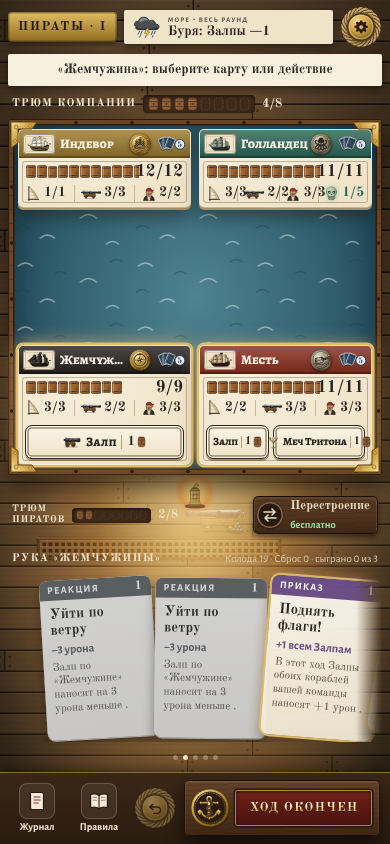
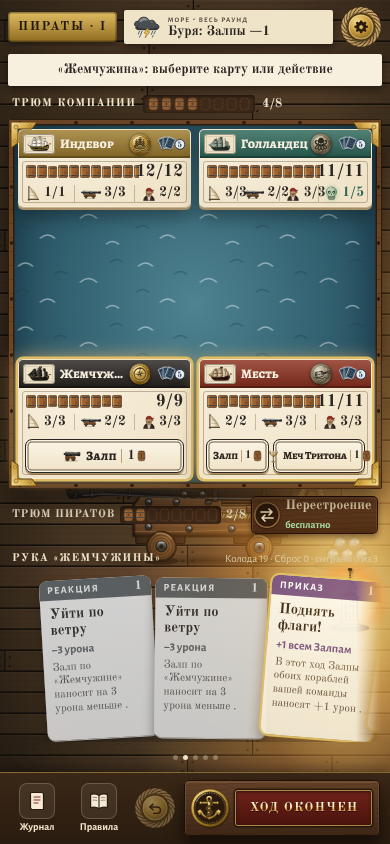
a5-phone: the deck gun behind the Hold row — on a phone the big gun of «Палуба» (70 % of the width) is the background behind the row of the Hold, the lantern hangs on a hook behind the fan; the row of the Hold is whole again; the fan overlaps as before
Claude-Session: https://claude.ai/code/session_017bwkospFGZYATbEyyNQNKf

Changed region(s): [[0.0, 0.2773, 1.0, 0.9242], [0.2154, 0.0924, 0.6154, 0.154]]

diff --git a/src/ui/game/TableThings.tsx b/src/ui/game/TableThings.tsx
@@ -44,9 +44,9 @@ interface Placed extends Box {
  * R — 16 px before «Ход окончен» + «Отменить», its balls at the wheel, the lantern (1.3) over the breech; the hand stands in the
  * middle of the strip from L (24 px right of the Hold, the hourglass and «Перестроение») to the gun − 16 (Hand.tsx useFanFit
  * reads the paddings of .hand-cards and closes the step of the fan when the cards do not fit), whole in the window; its tabs
- * begin over its first card, the grating lies over its middle. A phone (a5-phone): the gun (turned, its breech to the left) with its
- * balls whole in the row of the Hold, in the gap between «2/8» and «Перестроение», as tall as the row; the lantern (smaller) stands
- * on its breech, its light falls on the gun and the top of the hand — neither meets the tray, the button, the cards or the bar.
+ * begin over its first card, the grating lies over its middle. A phone (a5-phone): a big gun (70 % of the width, turned) behind the fan
+ * in the middle of the zone of the hand, its balls by the wheel; the lantern hangs on a hook in the top right corner of that zone;
+ * both are the background — the cards, the caption and the bottom bar lie over them.
  */
 const PIECES = {
   grate: { src: grate, vb: [-7, -7, 354, 38] },
@@ -56,6 +56,10 @@ const PIECES = {
   coil: { src: coilArt, vb: [-41, -18, 70, 46] },
 } as const;
 type PieceKey = keyof typeof PIECES;
+/** A phone: the iron hook in a beam the lantern hangs on, and its short chain (stretched to the height of its box). */
+const HOOK_SVG =
+  '<svg width="100%" height="100%" viewBox="0 0 12 30" preserveAspectRatio="none" aria-hidden="true"><circle cx="6" cy="2.4" r="2" fill="#2a2420" stroke="#0e0b09" stroke-width=".6"/><path d="M6 4 V24" stroke="#3a322c" stroke-width="1.6" stroke-dasharray="2.4 1.2"/><path d="M6 23 Q9.4 25 8.4 28 Q7 30.4 4.4 29" fill="none" stroke="#2a2420" stroke-width="1.6" stroke-linecap="round"/></svg>';
+
 /** The light of the lantern reaches R (the values of the user for the whole table). */
 const LIGHT_R = { laptop: 380, phone: 220 } as const;
 /** The scales of the gun and the lantern on a laptop (1366×660). */
@@ -77,6 +81,8 @@ interface DeckPlace {
   /** A laptop: the paddings that put the hand in the middle of its strip (in the px of the zoomed row), the room under the
    *  cards, the indent of the tabs (the left of the first card) and the larger hand of a tall window. */
   hand?: { pl: number; pr: number; lift: number; tabs: number };
+  /** A phone: the hook the lantern hangs on. */
+  hook?: Box;
 }
 
 const visible = (game: HTMLElement, q: string) => Array.from(game.querySelectorAll(q)).find((e) => e.getBoundingClientRect().width > 0) ?? null;
@@ -99,29 +105,26 @@ function deckPlace(game: HTMLElement): DeckPlace | null {
   const cards = Array.from(game.querySelectorAll('.hand-cards .hcard')).map((c) => rect(c, g)).filter((c): c is Box => !!c);
   if (!hand) return null;
   if (W < 701) {
-    // the row of the Hold: the gun stands whole in the gap between «2/8» and «Перестроение», as tall as the row
+    // a big gun (turned, its breech to the left), 70 % of the width, behind the row of the Hold — the lowest layer: the frame of the
+    // sea, the tray, «2/8», «Перестроение», the caption of the hand and the cards lie over it; its centre on the middle of the row
+    // (its box is (x − 3·gs, y + 11·gs, 128·gs, 56·gs), its centre (x + 61·gs, y + 39·gs)). The balls lie by its front wheel.
+    const gs = (0.7 * W) / 128;
     const row = rect(game.querySelector('.board-bottom > .team-row:not(.table-edge)'), g);
-    const count = rect(visible(game, '.board-bottom > .team-row .hold-n'), g) ?? rect(visible(game, '.board-bottom > .team-row .powder-dots'), g);
-    const regroup = rect(visible(game, '.board-bottom > .team-row .regroup'), g);
-    const grateP = pieceAt('grate', 40, hand.t - 4, 0.7);
-    if (!row) return { phone: true, W, H, pieces: [grateP], lx: W - 40, ly: hand.t, ls: 0.5 };
-    const from = (count ? count.l + count.w : row.l) + 6,
-      to = (regroup ? regroup.l : row.l + row.w) - 6;
-    // the gun turned (the breech to the left) in the middle of the gap, its box (x − 3·gs, y + 11·gs, 128·gs, 56·gs); its balls (×0.5)
-    // on the floor before the wheel under the barrel, inside its box
-    const gs = Math.max(0.3, Math.min(0.7, (to - from) / 128, (row.h - 8) / 56));
-    const bs = gs * 0.5;
-    const gunB = row.t + row.h - 3;
-    const gun = { ...pieceAt('cannon', (from + to) / 2 - 64 * gs + 3 * gs, gunB - 67 * gs, gs), flip: true };
-    const balls = pieceAt('balls', gun.l + gun.w - 4 * gs - 69 * bs + 25 * bs, gunB - 20 * bs, bs);
-    // the lantern on the breech, its flame over the row and under the frame of the sea; its width ≤ the gun's / 2.6
-    const sea = rect(game.querySelector('.sea-table'), g);
-    const stand = gun.t + 6 * gs;
-    const ls = Math.max(0.2, Math.min(0.62, (128 * gs) / 2.6 / 50, (stand - (sea ? sea.t + sea.h + 2 : row.t - 20)) / 59));
-    const lx = gun.l + 22 * gs,
-      ly = stand - 38 * ls;
+    const cx = row ? row.l + row.w / 2 : W / 2,
+      cy = row ? row.t + row.h / 2 : hand.t;
+    const gun = { ...pieceAt('cannon', cx - 61 * gs, cy - 39 * gs, gs), flip: true };
+    const bs = gs * 0.45;
+    const balls = pieceAt('balls', gun.l + gun.w - 10 * gs + 25 * bs, gun.t + gun.h - 20 * bs, bs);
+    // the lantern hangs on a hook in the top right corner of the zone of the hand, under «Колода · Сброс»; the gun is ≥ 2.5 times wider
+    const deckInfo = rect(visible(game, '[data-fx-deck]'), g);
+    const ls = Math.min(0.9, gun.w / 2.6 / 50);
+    const hookT = (deckInfo ? deckInfo.t + deckInfo.h : hand.t + 20) + 2;
+    const lanternT = hookT + 14;
+    const lx = hand.l + hand.w - 10 - 25 * ls,
+      ly = lanternT + 21 * ls;
     const lantern = lanternAt(lx, ly, ls);
-    return { phone: true, W, H, pieces: [grateP, gun, balls, lantern], lx, ly, ls };
+    const hook = { l: lx - 6, t: hookT, w: 12, h: lanternT - hookT + 4 * ls };
+    return { phone: true, W, H, pieces: [gun, balls, lantern], lx, ly, ls, hook };
   }
   const end = rect(visible(game, '[data-testid="end-turn"]'), g);
   const undo = rect(visible(game, '.log-col .undo'), g);
@@ -273,6 +276,9 @@ export function TableBackdrop({ look }: { look: 'deck' | 'table' }) {
         put('--deck-pr', hd ? Math.max(0, Math.round(hd.pr)) : 0);
         put('--deck-lift', hd ? Math.round(hd.lift) : 0);
         put('--deck-tabs', hd ? Math.round(hd.tabs) : 0);
+        // a phone: the warm light of the lantern over the fan (phone.css)
+        put('--lamp-x', d ? Math.round(d.lx) : 0);
+        put('--lamp-y', d ? Math.round(d.ly) : 0);
         setPlaced([]);
         return;
       }
@@ -325,6 +331,7 @@ export function TableBackdrop({ look }: { look: 'deck' | 'table' }) {
               <img key={p.key} className={`deck-piece ${p.flip ? 'flip' : ''}`} data-piece={p.key} src={PIECES[p.key].src} alt="" draggable={false} style={{ left: p.l, top: p.t, width: p.w, height: p.h }} />
             ))}
           {deck && <DeckLight x={deck.lx} y={deck.ly} r={LIGHT_R[deck.phone ? 'phone' : 'laptop']} ls={deck.ls} sq={deck.H / deck.W} />}
+          {deck?.hook && <i className="deck-hook" style={{ left: deck.hook.l, top: deck.hook.t, width: deck.hook.w, height: deck.hook.h }} dangerouslySetInnerHTML={{ __html: HOOK_SVG }} />}
           {deck?.pieces
             .filter((p) => p.key === 'lantern')
             .map((p) => (

diff --git a/e2e/table.spec.ts b/e2e/table.spec.ts
@@ -527,8 +527,8 @@ for (const v of [
 
 // rig, г: «Фон под рукой» — the deck (or the captain's table) fills the whole window. Б6 on the game table: the gun, its balls, the
 // lantern, «Колода · Сброс», the cards of the hand, the Hold, the hourglass, «Ход окончен» and «Отменить» do not run into each other;
-// the gun is at least 2.5 times as wide as the lantern; no «Вещи на столе» on the deck. On a phone (a5-phone) the gun stands under the
-// cards, in the strip of the dots, and the lantern in the row of the caption of the hand: neither meets a card.
+// the gun is at least 2.5 times as wide as the lantern; no «Вещи на столе» on the deck. On a phone (a5-phone) the gun and the lantern
+// are the background — the big gun behind the row of the Hold, the lantern on a hook behind the fan: the caption and the bar lie over them.
 for (const look of ['deck', 'table'] as const) {
   for (const v of [
     { w: 1366, h: 660 },
@@ -565,8 +565,16 @@ for (const look of ['deck', 'table'] as const) {
           deck: vis('[data-fx-deck]')[0] ?? null,
           cards: vis('.hand-cards .hcard'),
           hold: box(document.querySelector('.board-bottom > .team-row:not(.table-edge)')),
-          // a phone (a5-phone): the gun stands in the row of the Hold, between its parts — they are checked one by one
-          holdParts: ['.hold-label', '.powder-dots', '.hold-n', '.regroup'].map((q) => box(document.querySelector(`.board-bottom > .team-row ${q}`))),
+          // a phone (a5-phone): the gun (behind the row of the Hold) and the lantern (behind the fan) are the background — only the
+          // caption of the hand and the bottom bar must lie over them: a press at their points hits them, not the backdrop
+          over: ['.phone-hand-label', '.bottom-bar'].map((q) => {
+            const e = Array.from(document.querySelectorAll(q)).find((x) => x.getBoundingClientRect().width > 0);
+            if (!e) return `${q}: missing`;
+            const b = e.getBoundingClientRect();
+            const pts = [[b.left + b.width / 2, b.top + b.height / 2], [b.left + 4, b.top + 4], [b.right - 4, b.bottom - 4]];
+            return pts.every(([x, y]) => { const hit = document.elementFromPoint(x, y); return !!hit && !hit.closest('.backdrop') && (e.contains(hit) || hit === e || !!hit.closest(q)); }) ? null : `${q} is not over the deck`;
+          }),
+          phone: innerWidth < 701,
           glass: vis('.hold-glass')[0] ?? null,
           end: vis('[data-testid="end-turn"]')[0] ?? null,
           undo: vis('.undo')[0] ?? null,
@@ -582,7 +590,7 @@ for (const look of ['deck', 'table'] as const) {
         ['the lantern', r.lantern],
         ...r.props.map((p, i): [string, R] => [`prop ${i}`, p]),
         ['«Колода»', r.deck],
-        ...(r.iw < 701 ? r.holdParts.map((p, i): [string, R | null] => [`the Hold part ${i}`, p]) : [['the Hold', r.hold] as [string, R | null]]),
+        ['the Hold', r.hold],
         ['the hourglass', r.glass],
         ['«Ход окончен»', r.end],
         ['«Отменить»', r.undo],
@@ -590,7 +598,9 @@ for (const look of ['deck', 'table'] as const) {
       ];
       const art = (n: string) => ['the gun', 'the balls', 'the lantern'].includes(n) || n.startsWith('prop');
       const bad: string[] = [];
-      for (let i = 0; i < named.length; i++)
+      // a phone: the gun and the lantern are the background (the cards lie on them) — only the caption and the bar over them
+      if (r.phone) bad.push(...r.over.filter((x): x is string => !!x));
+      for (let i = 0; i < named.length && !r.phone; i++)
         for (let j = i + 1; j < named.length; j++) {
           const [na, a] = named[i],
             [nb, b] = named[j];
@@ -598,7 +608,7 @@ for (const look of ['deck', 'table'] as const) {
           if (art(na) && art(nb) && !na.startsWith('prop')) continue; // the balls lie before the gun, the lantern stands on it
           if (meet(a, b)) bad.push(`${na} ∩ ${nb}`);
         }
-      for (const [n, p] of named) if (p && art(n) && (p.l < -1 || p.t < -1 || p.r > r.iw + 1 || p.b > r.ih + 1)) bad.push(`${n} outside the window`);
+      for (const [n, p] of named) if (!r.phone && p && art(n) && (p.l < -1 || p.t < -1 || p.r > r.iw + 1 || p.b > r.ih + 1)) bad.push(`${n} outside the window`);
       // «Колода · Сброс» does not run into the Hold or «Перестроение» either (on «Палуба» it is in the corner under them)
       if (r.deck && r.hold && meet(r.deck, r.hold)) bad.push('«Колода» ∩ the Hold');
       expect(bad).toEqual([]);

diff --git a/src/ui/game/phone.css b/src/ui/game/phone.css
@@ -109,46 +109,11 @@
   .board-bottom > .team-row .team-name {
     display: none;
   }
-  /* room for the gun of «Палуба» between the tray and «Перестроение» (TableThings.tsx): the caption in two lines, smaller kegs */
-  .board-bottom > .team-row .hold-label {
-    font-size: 10px;
-    letter-spacing: 0.08em;
-    line-height: 1.15;
-  }
-  .board-bottom > .team-row .hold-label .narrow {
-    display: inline-block;
-    width: min-content;
-    white-space: normal;
-  }
-  .game .board-bottom > .team-row .powder-dots {
-    gap: 1px;
-    padding: 2px 4px;
-  }
-  .board-bottom > .team-row .powder-dots i {
-    width: 10px;
-    height: 13px;
-  }
-  @media (max-width: 400px) {
-    .board-bottom > .team-row .hold-label {
-      font-size: 9.5px;
-    }
-    .board-bottom > .team-row .powder-dots i {
-      width: 8px;
-      height: 11px;
-    }
-    .game .board-bottom > .team-row .btn.regroup {
-      font-size: 11.5px;
-    }
-  }
-  /* «Палуба»: the lantern stands on the gun, its flame over the row */
-  .game.view-hand-deck .board-bottom > .team-row {
-    margin-top: 14px;
-  }
   .game .board-bottom > .team-row .btn.regroup {
     margin-left: auto;
     height: 38px;
     min-height: 0;
-    padding: 0 8px 0 4px;
+    padding: 0 11px 0 4px;
     border: 0;
     border-radius: 5px;
     background:
@@ -161,11 +126,11 @@
     color: #f3e6c6;
     font-family: var(--font-num);
     font-weight: 700;
-    font-size: 12.5px;
+    font-size: 13.5px;
   }
   .board-bottom > .team-row .btn.regroup .cmd-in {
     display: grid;
-    grid-template-columns: 26px auto;
+    grid-template-columns: 30px auto;
     grid-template-areas:
       'ic name'
       'ic cost';
@@ -179,8 +144,8 @@
   }
   .board-bottom > .team-row .btn.regroup .cmd-icon {
     grid-area: ic;
-    width: 26px;
-    height: 26px;
+    width: 30px;
+    height: 30px;
     border-radius: 50%;
     display: flex;
     align-items: center;
@@ -847,6 +812,48 @@
   }
   .fx-simple .hand-cards > .hcard.lift-open {
     animation: none;
+  }
+}
+/* the hook of the lantern of «Палуба» (a phone only draws it: TableThings.tsx) */
+.deck-hook {
+  position: absolute;
+  display: block;
+  filter: drop-shadow(1px 2px 1px rgba(0, 0, 0, 0.5));
+}
+@media (max-width: 700px) {
+  /* «Палуба»: the warm light of the lantern falls on the fan too — a faint layer over the hand from the flame (--lamp-x/y) */
+  .game.view-hand-deck::after {
+    content: '';
+    position: absolute;
+    inset: 0;
+    z-index: 5;
+    pointer-events: none;
+    mix-blend-mode: soft-light;
+    background: radial-gradient(240px 200px at var(--lamp-x, 100%) var(--lamp-y, 70%), rgba(255, 196, 110, 0.5), rgba(255, 160, 60, 0.18) 50%, rgba(255, 160, 60, 0) 100%);
+  }
+}
+@media (max-width: 400px) {
+  /* a narrow phone: the row of the Hold whole — «Перестроение» with its words and «бесплатно» (a smaller sign, tighter gaps) */
+  .board-bottom > .team-row {
+    gap: 5px;
+  }
+  .board-bottom > .team-row .hold-label {
+    letter-spacing: 0.06em;
+  }
+  .game .board-bottom > .team-row .powder-dots {
+    gap: 1px;
+    padding: 2px 3px;
+  }
+  .game .board-bottom > .team-row .btn.regroup {
+    padding: 0 7px 0 3px;
+  }
+  .board-bottom > .team-row .btn.regroup .cmd-in {
+    grid-template-columns: 26px auto;
+    column-gap: 5px;
+  }
+  .board-bottom > .team-row .btn.regroup .cmd-icon {
+    width: 26px;
+    height: 26px;
   }
 }
 @media (max-width: 700px) and (prefers-reduced-motion: reduce) {

diff --git a/docs/progress/a5-phone.md b/docs/progress/a5-phone.md
@@ -82,6 +82,18 @@
   частями строки Трюма (подпись, лоток, «2/8», «Перестроение»), а не с рамкой всей строки. typecheck — зелёный.
   Кадры: `deck-gun-430x932.png`, `deck-gun-390x844.png`, `deck-gun-row-430.png`, `deck-gun-row-390.png`.
 
+- Правка 2 («Палуба» на телефоне, решение пользователя): пушка в строке Трюма вышла мелкой и сжимала строку — строка Трюма
+  возвращена как в части 1 (подпись в одну строку, бочонки прежние, «Перестроение» с надписью и «бесплатно»; на ≤ 400 px — чуть
+  меньше промежутки, знак 26 px и плотнее лоток, чтобы кнопка помещалась целиком). Пушка — большая (70 % ширины: 300×131 на
+  430 px, 273×119 на 390 px), задним фоном за строкой Трюма: центр пушки — на середине строки; рамка моря, лоток, «2/8»,
+  «Перестроение», подпись руки и карты лежат поверх неё; ядра у колеса. Фонарь — фоном за веером, в правом верхнем углу зоны
+  руки под «Колода · Сброс», висит на крюке (`HOOK_SVG`), пушка ≥ 2,5 его ширины; тёплый свет — `DeckLight` на доски и
+  пушку и слабый слой поверх веера (`.game.view-hand-deck::after`, `--lamp-x/y`). Карты — внахлёст, как были. Ноутбук 1366×660 —
+  без отличий. e2e `table.spec` Б6 на телефоне: пушка и фонарь — фон, проверяется только, что подпись руки и нижняя панель
+  лежат над ними (точки подписи и панели попадают в них, а не в фон); разбивка строки Трюма на части из прошлой правки убрана.
+  typecheck — зелёный. Кадры: `deck-gun-430x932.png`, `deck-gun-scrolled-430x932.png`, `deck-gun-390x844.png`,
+  `deck-gun-scrolled-390x844.png` (веер в начале и пролистанный); кадры пушки в строке Трюма удалены.
+
 ## С чего продолжать
 
 Сервер кадров: `node scripts/e2e-site.mjs` в фоне через `setsid` (пересобирать после правок). Вход в стол: quick-duo →
